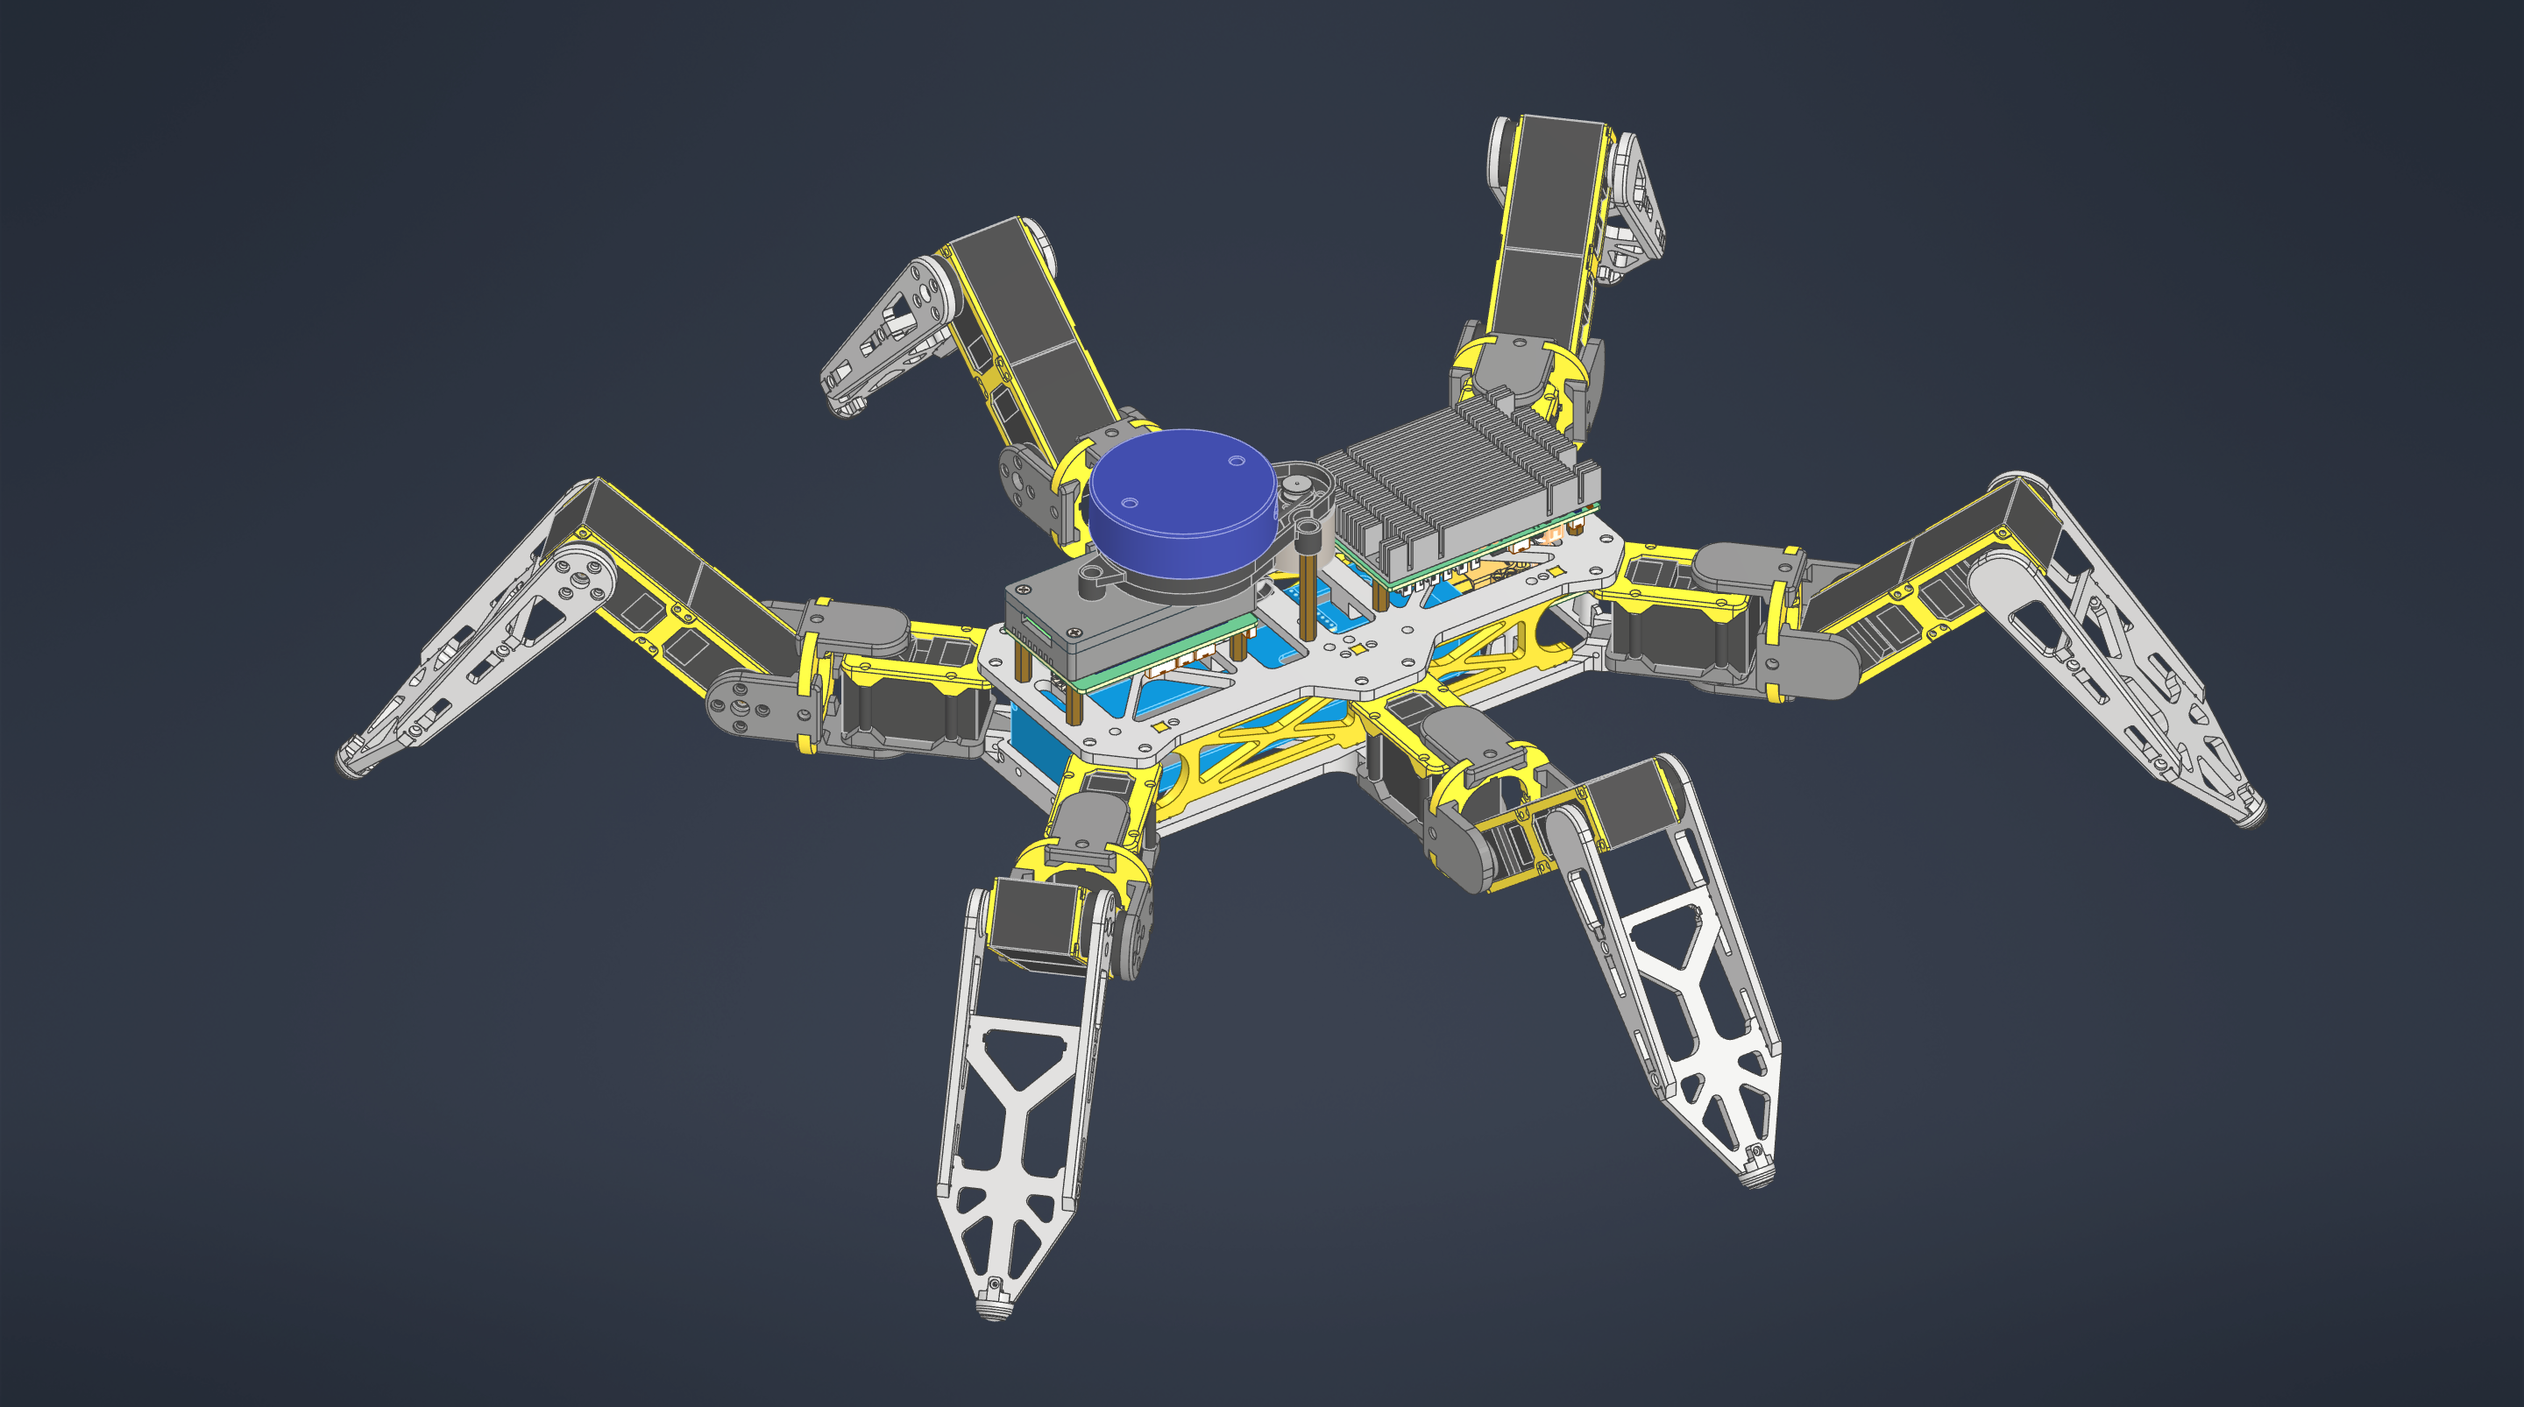
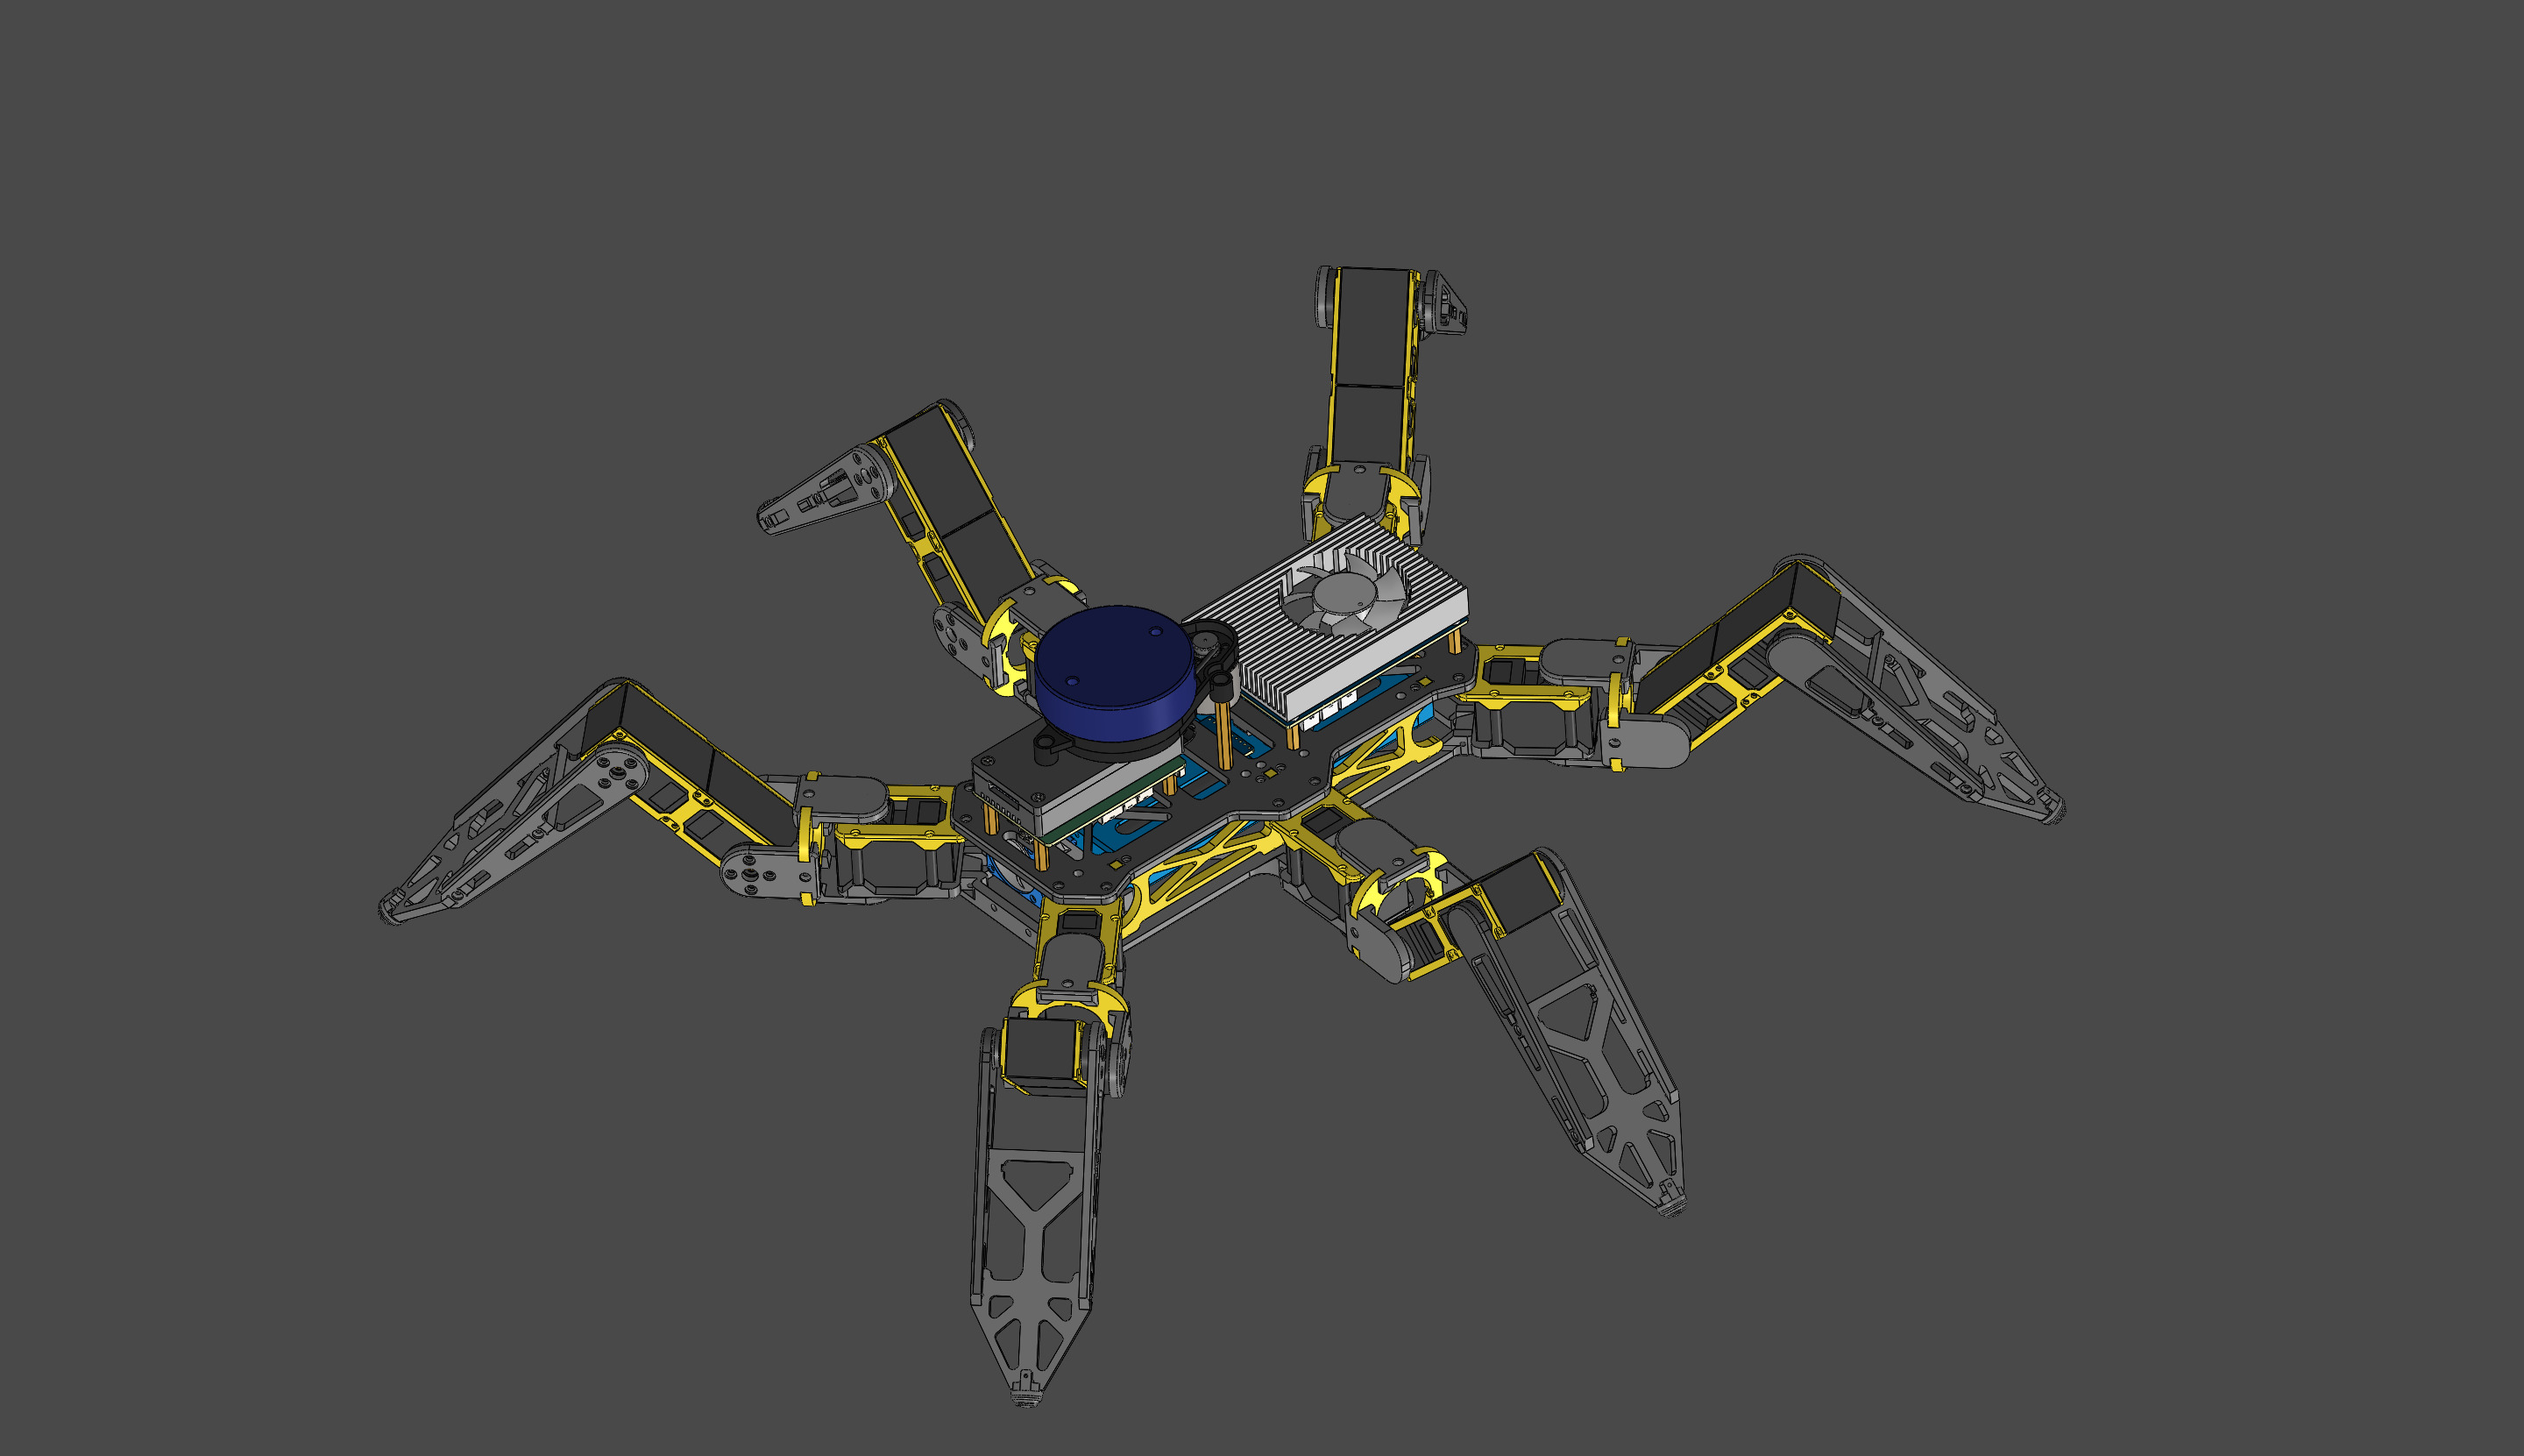
update readme

diff --git a/README.md b/README.md
@@ -216,7 +216,7 @@ software/hexapod_ros_ws/
 
 | 功能包                              | 描述                                                         |
 | ----------------------------------- | ------------------------------------------------------------ |
-| hexapod_bringup                     | 系统启动的 Launch 文件和配置。按正确顺序启动所有硬件驱动、`ros2_control` 控制器、传感器节点和 MicroROS Agent。 |
+| hexapod_bringup                     | 系统启动的 Launch 文件和配置。按正确顺序启动所有硬件驱动、`ros2_control` 控制器、传感器节点和 MicroROS Agent。另外包含见图、当航、IMU融合的配置和启动文件 |
 | hexapod_description                 | RDF/Xacro 机器人模型、网格文件、TF 坐标系与 RViz 可视化配置。定义了 18 自由度运动学结构 |
 | hexapod_interface                   | 定义了hexapod 各节点通信的 msg/service/action 文件           |
 | hexapod_sensor_interface            | 定义了与 stm32 通信的 msg 文件                               |
@@ -224,10 +224,7 @@ software/hexapod_ros_ws/
 | hexapod_test_ubtech_servo_interface | 定义测试 ubtech 舵机服务使用的 service 文件                  |
 | hexapod_ubtech_ros2_control         | 使用 ros2_control 控制 ubtech 舵机，后续可更换成其他舵机，只要实现对应舵机的 ros2_control功能包即可 |
 | ydlidar_ros2_driver                 | YDLIDAR X2 激光雷达 ROS2 驱动                                |
-| hexapod_ik_solver                   | 将足端轨迹 (x,y,z) 转成18个关节的舵机转动角度（TODO）        |
-| hexapod_gait_planner                | 将速度/朝向指令转成足端轨迹/每条腿的foot trajectory（TODO）  |
-| hexapod_slam                        | 基于 SLAM Toolbox 的即时定位与建图，使用 YDLIDAR X2 点云数据。生成 2D 占据栅格地图供导航使用（TODO） |
-| hexapod_navigation                  | Navigation2 导航栈配置（TODO）                               |
+| hexapod_controller                  | 将速度/朝向指令转成足端轨迹/每条腿的foot trajectory，将足端轨迹 (x,y,z) 转成18个关节的舵机转动角度 |
 
 ---
 
@@ -236,10 +233,10 @@ software/hexapod_ros_ws/
 - [x] 硬件设计（PCB、原理图）
 - [x] 3D 打印机身设计（PETG、Bambu Lab A1）
 - [x] 基础 ROS2 bringup 与 ros2_control
-- [ ] STM32 固件与 MicroROS 集成
-- [ ] 逆运动学解算与三角步态
-- [ ] YDLIDAR X2 驱动与 SLAM 集成
-- [ ] Navigation2 路径规划
+- [x] STM32 固件与 MicroROS 集成
+- [x] 逆运动学解算与三角步态
+- [x] YDLIDAR X2 驱动与 SLAM 集成
+- [x] Navigation2 路径规划
 - [ ] RL 训练环境（Gazebo + PyBullet）
 - [ ] RL 运动策略训练（PPO / SAC）
 - [ ] 仿真到实物策略部署
